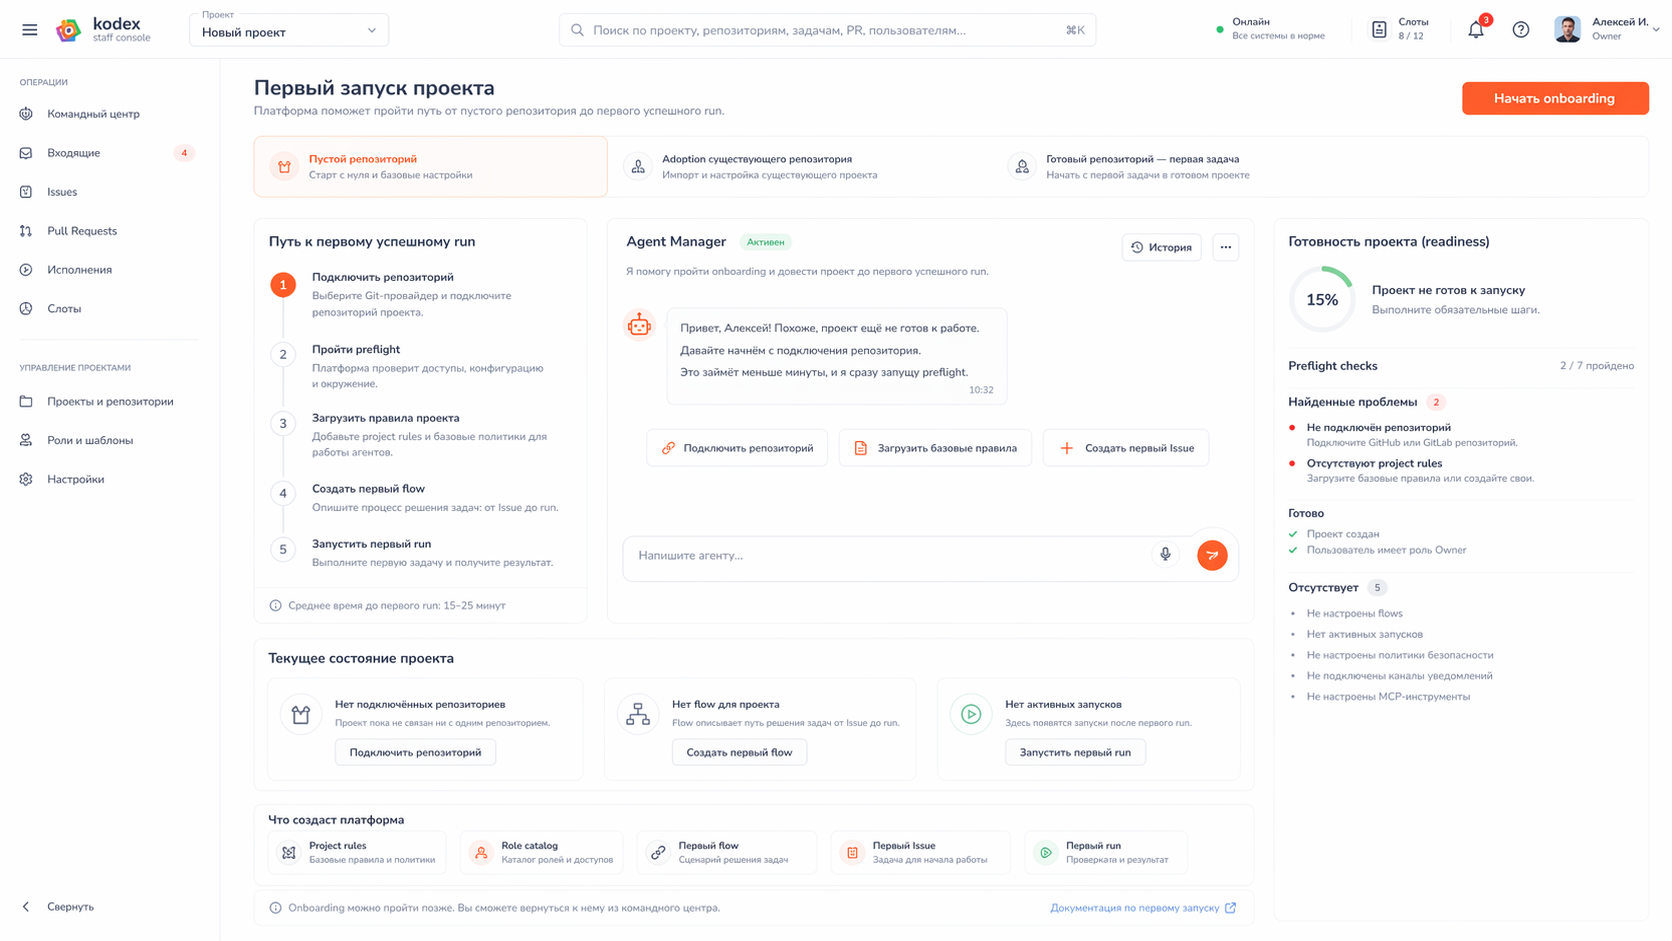
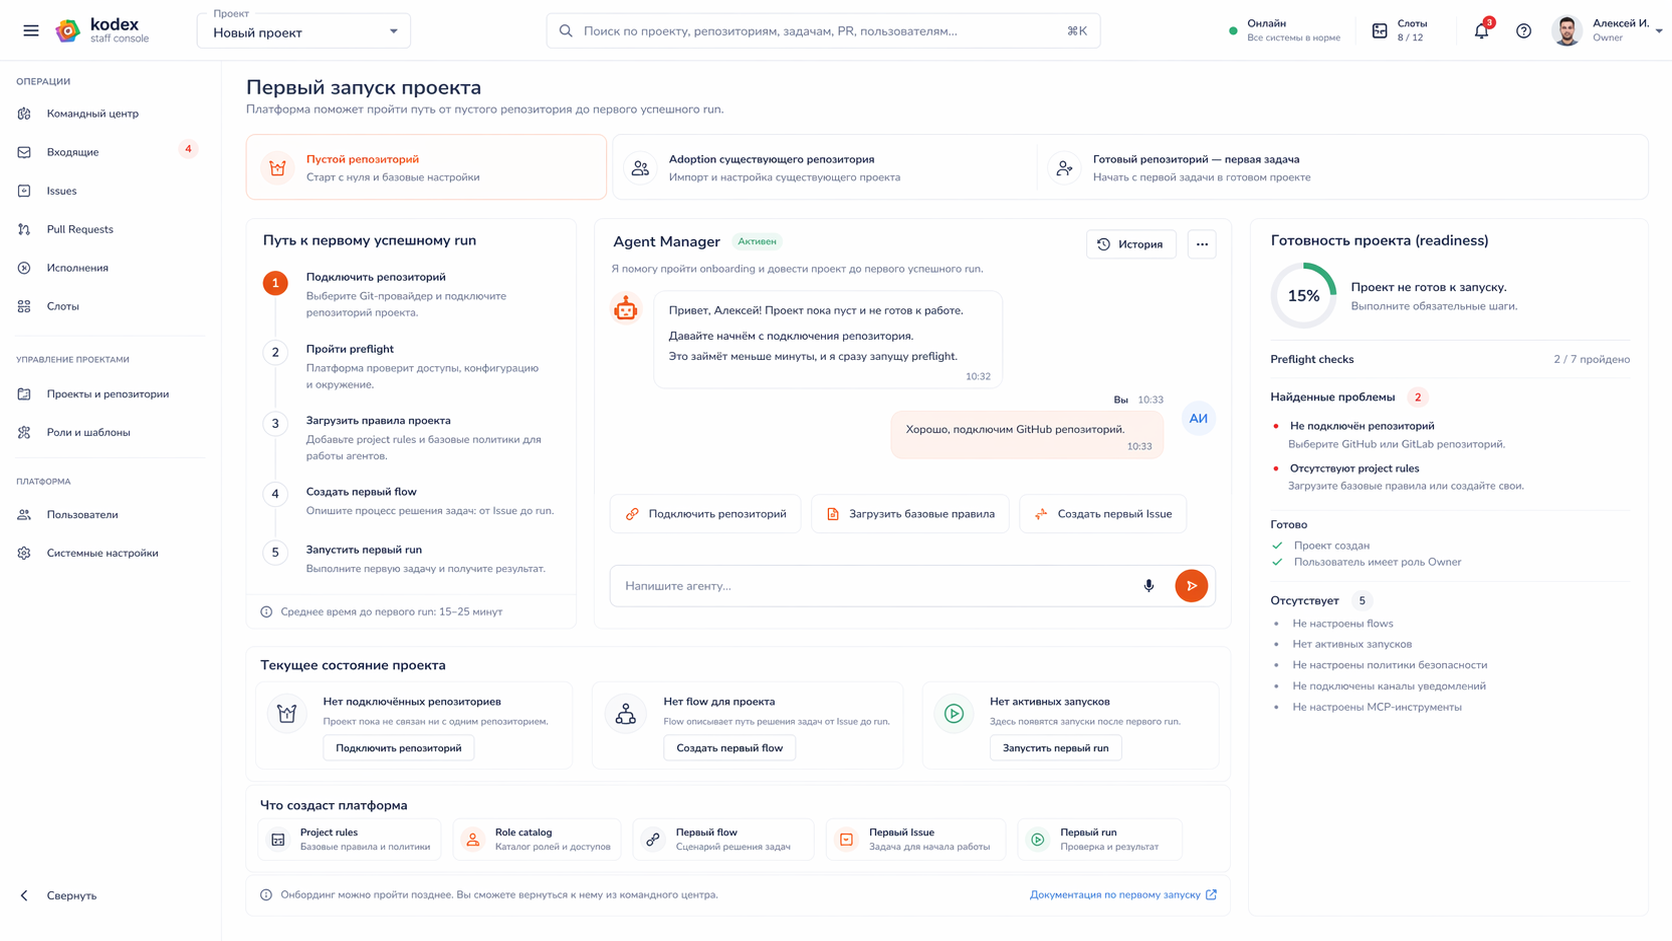
Finalize wave five mockup package

diff --git a/refactoring/images/wave5/09-integrations-and-accounts/screen.md b/refactoring/images/wave5/09-integrations-and-accounts/screen.md
@@ -1,9 +1,9 @@
 # Внешние аккаунты, интеграции и MCP
 
-Статус: `reviewing`
+Статус: `approved`
 
 ## Назначение
-Экран настройки внешних аккаунтов, provider-интеграций, MCP-серверов, лимитов и проблем авторизации.
+Экран настройки внешних аккаунтов, provider-интеграций, лимитов и проблем авторизации с переходом к отдельной категории MCP.
 
 ## Главные сущности
 - внешний аккаунт
@@ -18,26 +18,26 @@
 - верхняя лента summary-card по аккаунтам, интеграциям, проблемам авторизации и лимитам
 - список категорий интеграций
 - центральная таблица аккаунтов выбранного provider
-- блок привязки аккаунтов к ролям и проектам
-- блок MCP-серверов
-- правая панель здоровья интеграций, последних auth issues и лимитов
+- блок использования GitHub-аккаунтов ролями и проектами
+- правая панель здоровья GitHub-интеграции, последних auth issues и лимитов
 
 ## Ключевые действия
 - добавить аккаунт
 - проверить авторизацию
 - открыть политику MCP
 - настроить аккаунт
-- настроить MCP-сервер
+- перейти к политике MCP или отдельной категории MCP-серверов
 - посмотреть ограничения и квоты
 
 ## Источники данных
-- платформа: provider-hub, account registry, MCP policy, rate-limit projection, auth issues
+- платформа: provider-hub, account registry, provider policy, MCP policy, rate-limit projection, auth issues
 - внешние системы: GitHub, GitLab, OpenAI / Codex, каналы уведомлений
 
 ## Что намеренно не показывается
 - сохранение секретов как читаемого контента экрана
 - чат и голос как основной режим
 - хаотичное смешение provider settings, runtime и release-диагностики
+- общий блок MCP-серверов внутри provider-экрана, если активна конкретная категория вроде GitHub
 
 ## Открытые вопросы
 - нет

diff --git a/refactoring/19-flow-role-prompt-and-settings-ux.md b/refactoring/19-flow-role-prompt-and-settings-ux.md
@@ -174,6 +174,13 @@ UI должен:
 - аккаунты внешних каналов уведомлений и обратной связи;
 - технические привязки аккаунтов к ролям и проектам.
 
+Если в левой категории выбран конкретный provider, например GitHub, центральная поверхность и правая панель должны оставаться в provider-контексте.
+
+Это означает:
+- список аккаунтов, лимиты и auth issues относятся именно к GitHub;
+- блок использования аккаунтов должен объяснять, как GitHub-аккаунты привязаны к ролям и проектам;
+- общий экран MCP-серверов не должен смешиваться с provider-экраном и показывается в собственной категории.
+
 ### 5.2. Права MCP и внешних операций
 Для роли и flow должно быть видно не только "какой prompt запустится", но и:
 - какие MCP-инструменты доступны;
@@ -256,8 +263,8 @@ UI должен проектироваться вокруг расширяемо
 Отдельный экран внешних аккаунтов и интеграций отвечает за:
 - provider-аккаунты и их политики;
 - лимиты и проблемы авторизации;
-- привязку аккаунтов к ролям и проектам;
-- состояние MCP-серверов;
+- использование provider-аккаунтов ролями и проектами;
+- переход к отдельной категории MCP-серверов без смешения контекста;
 - быстрые действия по проверке авторизации и открытию MCP-политик.
 
 ![Текущий макет внешних аккаунтов, интеграций и MCP](images/wave5/09-integrations-and-accounts/screen.png)

diff --git a/refactoring/images/wave5/index.md b/refactoring/images/wave5/index.md
@@ -1,6 +1,6 @@
 # Пакет макетов wave 5
 
-Статус: `in-progress`
+Статус: `approved`
 
 Назначение пакета:
 - визуально уточнять wave 5 до начала реализации frontend;
@@ -45,21 +45,21 @@
    - файлы: `screen.png`, `screen.md`
 
 8. `08-projects-and-repositories`
-   - статус: `reviewing`
+   - статус: `approved`
    - экран: проекты и репозитории
    - файлы: `screen.png`, `screen.md`
 
 9. `09-integrations-and-accounts`
-   - статус: `reviewing`
+   - статус: `approved`
    - экран: внешние аккаунты, интеграции и MCP
    - файлы: `screen.png`, `screen.md`
 
 10. `10-users-and-access`
-   - статус: `reviewing`
+   - статус: `approved`
    - экран: пользователи и доступы
    - файлы: `screen.png`, `screen.md`
 
 11. `11-onboarding-and-empty-states`
-   - статус: `reviewing`
+   - статус: `approved`
    - экран: первый запуск и empty states
    - файлы: `screen.png`, `screen.md`

diff --git a/refactoring/images/wave5/11-onboarding-and-empty-states/screen.md b/refactoring/images/wave5/11-onboarding-and-empty-states/screen.md
@@ -1,6 +1,6 @@
 # Первый запуск и empty states
 
-Статус: `reviewing`
+Статус: `approved`
 
 ## Назначение
 Управляемый onboarding-экран для первого успешного `run` в новом или ещё неготовом проекте.
@@ -23,7 +23,6 @@
 - блок того, что создаст платформа в onboarding
 
 ## Ключевые действия
-- начать onboarding
 - подключить репозиторий
 - загрузить project rules
 - создать первый flow
@@ -39,6 +38,7 @@
 - отдельная плавающая кнопка микрофона
 - свободный canvas и ручной граф
 - длинный чат вместо управляемого маршрута
+- отдельная крупная CTA-кнопка в шапке, если тот же старт уже читается через шаги и действия agent-manager
 
 ## Открытые вопросы
 - нет

diff --git a/refactoring/18-workspaces-onboarding-and-operator-surfaces.md b/refactoring/18-workspaces-onboarding-and-operator-surfaces.md
@@ -287,6 +287,13 @@ approvals:
 4. выбрать минимальный сценарий первого запуска;
 5. получить первый `Issue` и первый успешный `run`.
 
+Старт маршрута должен читаться через:
+- первый шаг в stepper;
+- действия agent-manager внутри экрана;
+- empty-state карточки текущего состояния.
+
+Отдельная доминирующая CTA-кнопка в правом верхнем углу не является обязательной и не должна дублировать эти действия.
+
 ### 6.4. Existing repository adoption
 Платформа должна:
 1. показать, что уже найдено в репозитории;

diff --git a/refactoring/images/wave5/08-projects-and-repositories/screen.md b/refactoring/images/wave5/08-projects-and-repositories/screen.md
@@ -1,6 +1,6 @@
 # Проекты и репозитории
 
-Статус: `reviewing`
+Статус: `approved`
 
 ## Назначение
 Экран управления проектами платформы и подключёнными репозиториями, их readiness, доступами и состоянием синхронизации.

diff --git a/refactoring/images/wave5/10-users-and-access/screen.md b/refactoring/images/wave5/10-users-and-access/screen.md
@@ -1,6 +1,6 @@
 # Пользователи и доступы
 
-Статус: `reviewing`
+Статус: `approved`
 
 ## Назначение
 Экран управления пользователями платформы, их глобальными ролями, доступом к проектам и отдельным репозиториям.
